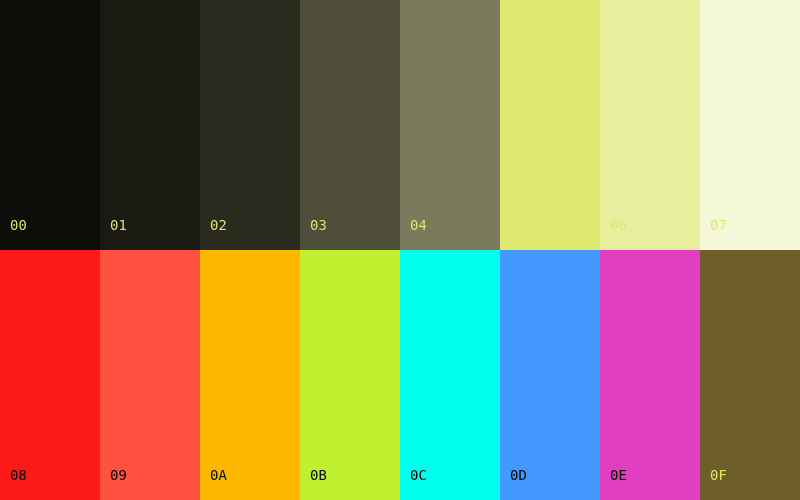
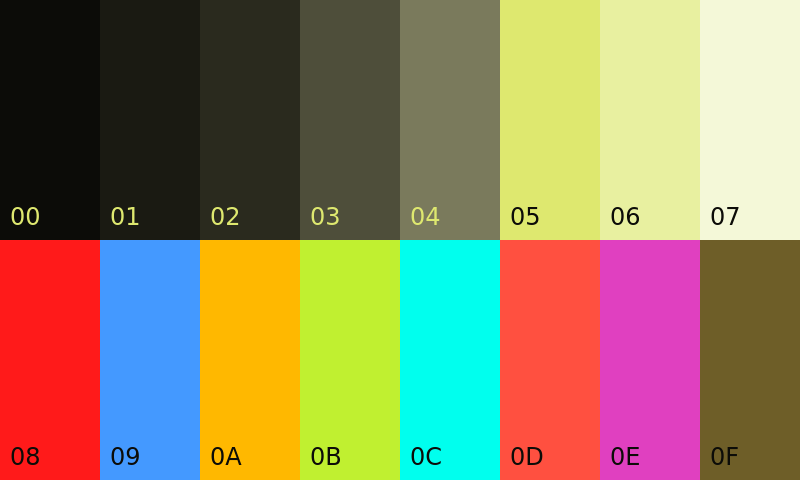
docs: update preview and README for color swap
Regenerate preview.png and update palette table to reflect
base09/base0D swap (Cobalt Bright ↔ Hot Coral).

diff --git a/README.md b/README.md
@@ -15,11 +15,11 @@ A [base16](https://github.com/tinted-theming/home) color scheme featuring Marath
 | 06   | `#e8f0a0` | Pale Lime (emphasis)    |
 | 07   | `#f4f8d8` | Cream White (headings)  |
 | 08   | `#ff1a1a` | Signal Red (errors)     |
-| 09   | `#ff5040` | Hot Coral (constants)   |
-| 0A   | `#ffb800` | Hard Gold (classes)     |
-| 0B   | `#c0f030` | Marathon Neon (strings) |
-| 0C   | `#00ffee` | Neon Cyan (regex)       |
-| 0D   | `#4499ff` | Cobalt Bright (funcs)   |
+| 09   | `#4499ff` | Cobalt Bright (constants) |
+| 0A   | `#ffb800` | Hard Gold (classes)       |
+| 0B   | `#c0f030` | Marathon Neon (strings)   |
+| 0C   | `#00ffee` | Neon Cyan (regex)         |
+| 0D   | `#ff5040` | Hot Coral (funcs)         |
 | 0E   | `#e040c0` | Hot Magenta (keywords)  |
 | 0F   | `#6e5e28` | Olive Gold (special)    |
 
